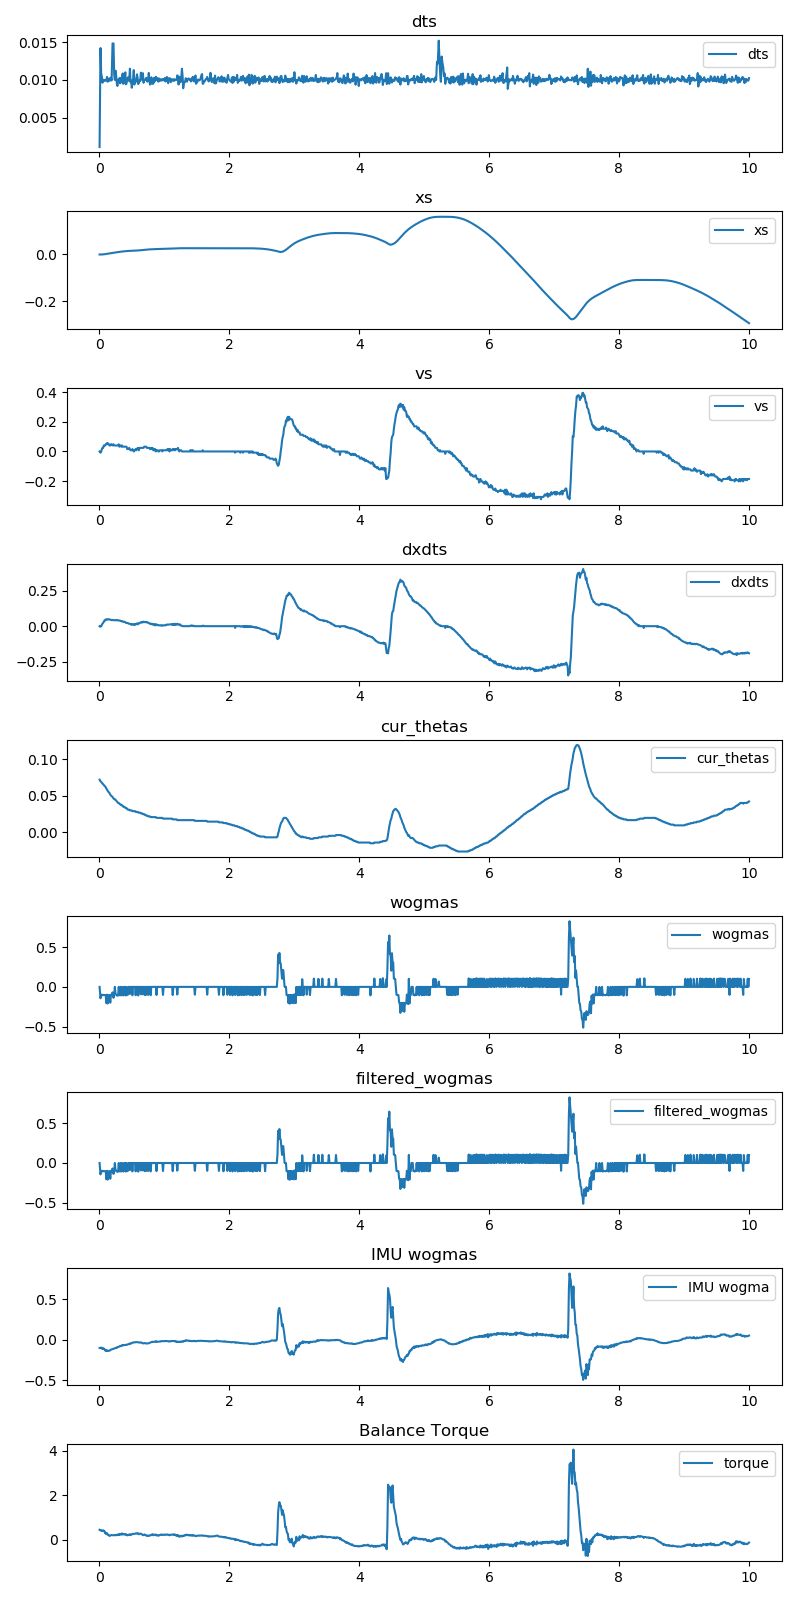
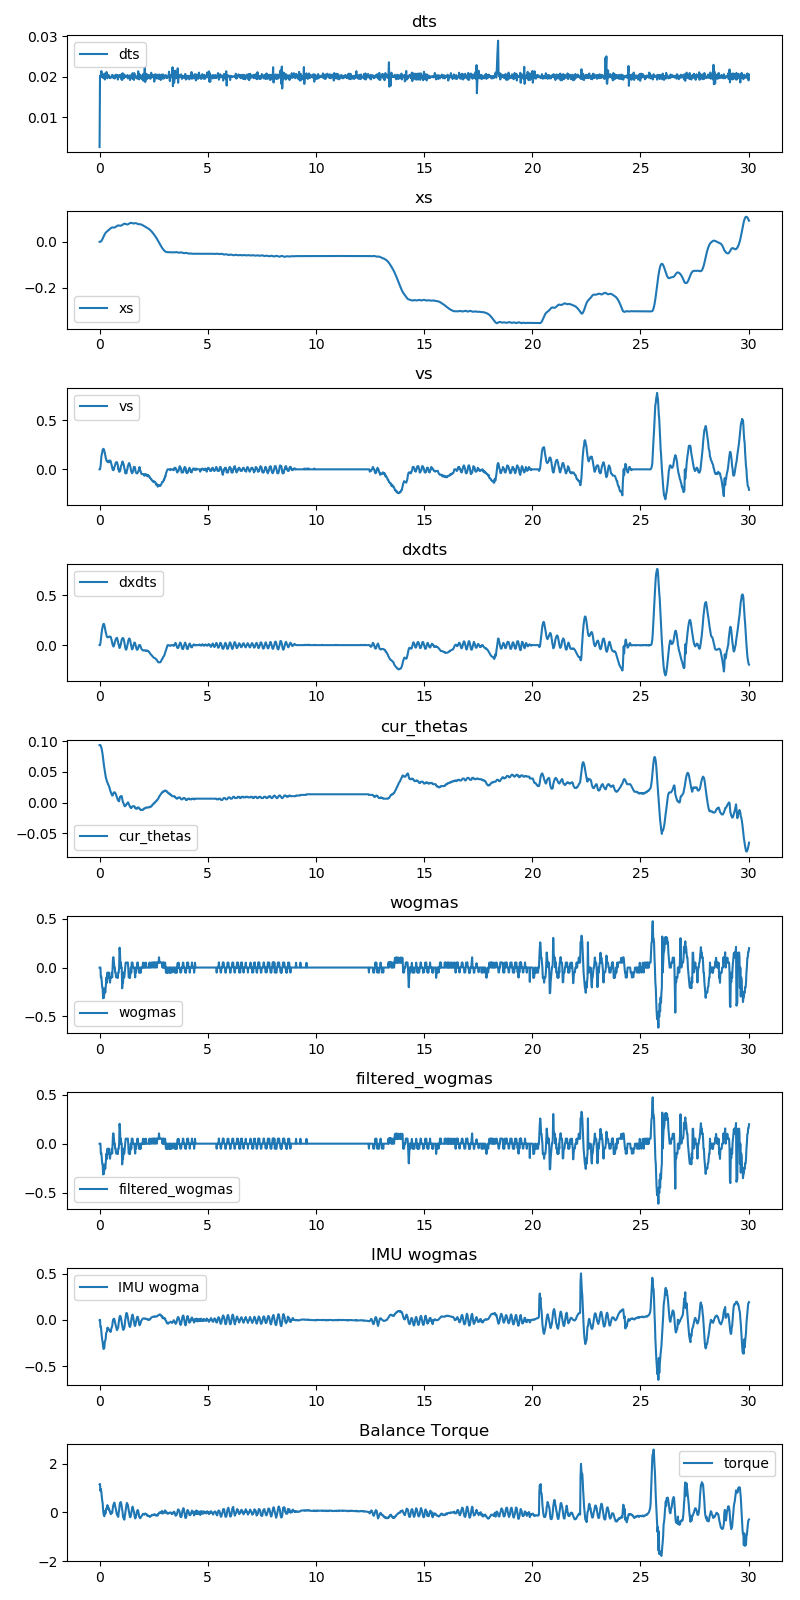
various changes, got balancing working

diff --git a/tests/straightLineTorqueTest.py b/tests/straightLineTorqueTest.py
@@ -6,7 +6,7 @@ import time
 import matplotlib.pyplot as plt
 import numpy as np
 import IMU
-import odriveDriver
+from odriveDriver import Axis
 
 
 plt.switch_backend('Agg')
@@ -33,8 +33,9 @@ def straight_accel_test(axis0, axis1, torque_set=0):
     axis0.setup()
     axis1.setup()
 
-    axis0.trq_set(torque_set)
-    axis1.trq_set(torque_set)
+    ref_time = time.time()
+    axis0.set_trq(torque_set)
+    axis1.set_trq(torque_set)
 
     #turns -> meters constant
     t2m = 0.528
@@ -60,7 +61,7 @@ def straight_accel_test(axis0, axis1, torque_set=0):
     vels_axis0 = []
     vels_axis1 = []
 
-    while cur_pos_axis0 < 2:
+    while cur_pos_axis0 < 1:
         print(cur_pos_axis0, cur_pos_axis1)
         cur_time = time.time() - ref_time
         cur_vel_axis0 = axis0.get_vel()
@@ -180,8 +181,19 @@ def plot_torques(axis):
 def brake_both_motors(axis0, axis1):
 
     while abs(axis0.get_vel()) > 0.05 and abs(axis1.get_vel()) > 0.05:
-        axis0.trq_set(-0.5 if axis0.get_vel() > 0 else 0.5)
-        axis1.trq_set(-0.5 if axis1.get_vel() > 0 else 0.5)
+        axis0.set_trq(-0.5 if axis0.get_vel() > 0 else 0.5)
+        axis1.set_trq(-0.5 if axis1.get_vel() > 0 else 0.5)
         
-    axis0.trq_set(0)
-    axis1.trq_set(0)
+    axis0.set_trq(0)
+    axis1.set_trq(0)
+
+
+a0 = Axis(odrv0.axis0, dir=1)
+a1 = Axis(odrv0.axis1, dir=-1)
+
+a0.setup()
+a1.setup()
+
+a0.set_trq(0.0)
+
+straight_accel_test(a0, a1, torque_set=0.3)

diff --git a/LQR.py b/LQR.py
@@ -57,11 +57,16 @@ def LQR(axis0, axis1):
     wogma_from_IMUs = []
     torque_commands = []
 
-    while cur_time < 10:
+    while cur_time < 30:
+        time.sleep(0.001)
+
         # if cur_time > 3:
         #     Xf = np.array([0.0 + (cur_time-3)*0.2, 0.0, 0, 0])
 
-        time.sleep(0.001)
+        #stop the program if the vel gets super high
+        if abs(axis0.get_vel()) > 2:
+            break
+
         cur_time = time.time() - start_time # relative time starts at 0
         dt = cur_time - prev_time
 
@@ -69,9 +74,10 @@ def LQR(axis0, axis1):
         v = axis0.get_vel() * t2m
         cur_theta = IMU.getAngle()
         wogma = (cur_theta - prev_theta) / dt
+        wogma_filtered = alpha * wogma + (1 - alpha) * wogma_filtered
+
         wogma_from_IMU = IMU.getWogma()
         
-        wogma_filtered = alpha * wogma + (1 - alpha) * wogma_filtered
 
         X = np.array([x, v, cur_theta, wogma_from_IMU])
 
@@ -165,7 +171,7 @@ def brake_both_motors(axis0, axis1):
     axis1.set_trq(0)
 
         
-a0 = Axis(odrv0.axis0)
+a0 = Axis(odrv0.axis0, dir=1)
 a1 = Axis(odrv0.axis1, dir=-1)
 
 a0.setup()

diff --git a/checkOdriveParams.py b/checkOdriveParams.py
@@ -67,8 +67,6 @@ print("Encoder Calibration Status (axis0):", odrv0.axis0.encoder.is_ready)
 print("Axis1 Error:", odrv0.axis1.error)
 print("Axis1 Motor Error:", odrv0.axis1.motor.error)
 print("Axis1 Controller Error:", odrv0.axis1.controller.error)
-print("Axis1 FET Thermistor Error:", odrv0.axis1.fet_thermistor.error)
-print("Axis1 Motor Thermistor Error:", odrv0.axis1.motor_thermistor.error)
 print("Axis1 Encoder Error:", odrv0.axis1.encoder.error)
 print("Axis1 Sensorless Estimator Error:", odrv0.axis1.sensorless_estimator.error)
 
@@ -114,8 +112,6 @@ print("Encoder Calibration Status (axis1):", odrv0.axis1.encoder.is_ready)
 print("Axis0 Error:", odrv0.axis0.error)
 print("Axis0 Motor Error:", odrv0.axis0.motor.error)
 print("Axis0 Controller Error:", odrv0.axis0.controller.error)
-print("Axis0 FET Thermistor Error:", odrv0.axis0.fet_thermistor.error)
-print("Axis0 Motor Thermistor Error:", odrv0.axis0.motor_thermistor.error)
 print("Axis0 Encoder Error:", odrv0.axis0.encoder.error)
 print("Axis0 Sensorless Estimator Error:", odrv0.axis0.sensorless_estimator.error)
 

diff --git a/odriveDriver.py b/odriveDriver.py
@@ -15,7 +15,7 @@ class Axis:
 
         # print(f"{self.axis} encoder is indexed")
         self.axis.requested_state = AXIS_STATE_CLOSED_LOOP_CONTROL
-        self.axis.controller.input_vel = 0
+        # self.axis.controller.input_vel = 0
         self.axis.controller.input_torque = 0
 
         self.set_trq()
@@ -36,11 +36,13 @@ class Axis:
         self.axis.controller.input_vel = v * self.dir
 
     def set_trq(self, t=0):
+        self.axis.controller.config.input_mode = 1
         if self.axis.controller.config.control_mode != CONTROL_MODE_TORQUE_CONTROL:
             self.axis.controller.config.control_mode = CONTROL_MODE_TORQUE_CONTROL
             print("changed to torque control")
-        
+
         self.axis.controller.input_torque = t * self.dir
+
 
     def stop(self):
         self.axis.controller.config.control_mode = CONTROL_MODE_TORQUE_CONTROL
@@ -84,7 +86,7 @@ class Axis:
         return self.axis.encoder.pos_estimate * self.dir#turns
 
     def accel_test(self):
-        self.trq_set(1)
+        self.trq_set(0.5)
 
         ref_time = time.time()
 

diff --git a/tests/motorTest.py b/tests/motorTest.py
@@ -17,10 +17,17 @@ plot_dir = './plots/'
 odrv0 = odrive.find_any()
 
 
-a0 = Axis(odrv0.axis0)
-# a1 = Axis(odrv0.axis1, dir=-1)
+a0 = Axis(odrv0.axis0, dir=1)
+a1 = Axis(odrv0.axis1, dir=1)
 
 a0.setup()
+a1.setup()
 
-a0.set_trq(0.5)
-# a1.setup()
+a0.set_trq(0.2)
+a1.set_trq(0.2)
+
+time.sleep(5)
+
+a0.set_trq(0.0)
+a1.set_trq(0.0)
+

diff --git a/IMU_test.py b/IMU_test.py
@@ -25,7 +25,7 @@ while (time.time() - stamp < 20):
     angle = IMU.getAngle()
     wogma = IMU.getWogma()
     # print(angle)
-    print(wogma)
+    print(angle)
 
     # values.append(angle[0])
     # valuesRaw1.append(angle[1])

diff --git a/IMU_uncool.py b/IMU_uncool.py
@@ -240,7 +240,7 @@ class IMU:
 
     # def getWogmaPole(self):
     def getAngle(self):
-        adjust = -0.015 #degrees
+        adjust = -0.017#rads
 
         vec = self.getGravityVector()
         print(vec)

diff --git a/odriveClearErrors.py b/odriveClearErrors.py
@@ -3,5 +3,4 @@ from odrive.enums import *
 
 odrv0 = odrive.find_any()
 
-odrv0.axis0.clear_errors()
-odrv0.axis1.clear_errors()
+odrv0.clear_errors()
